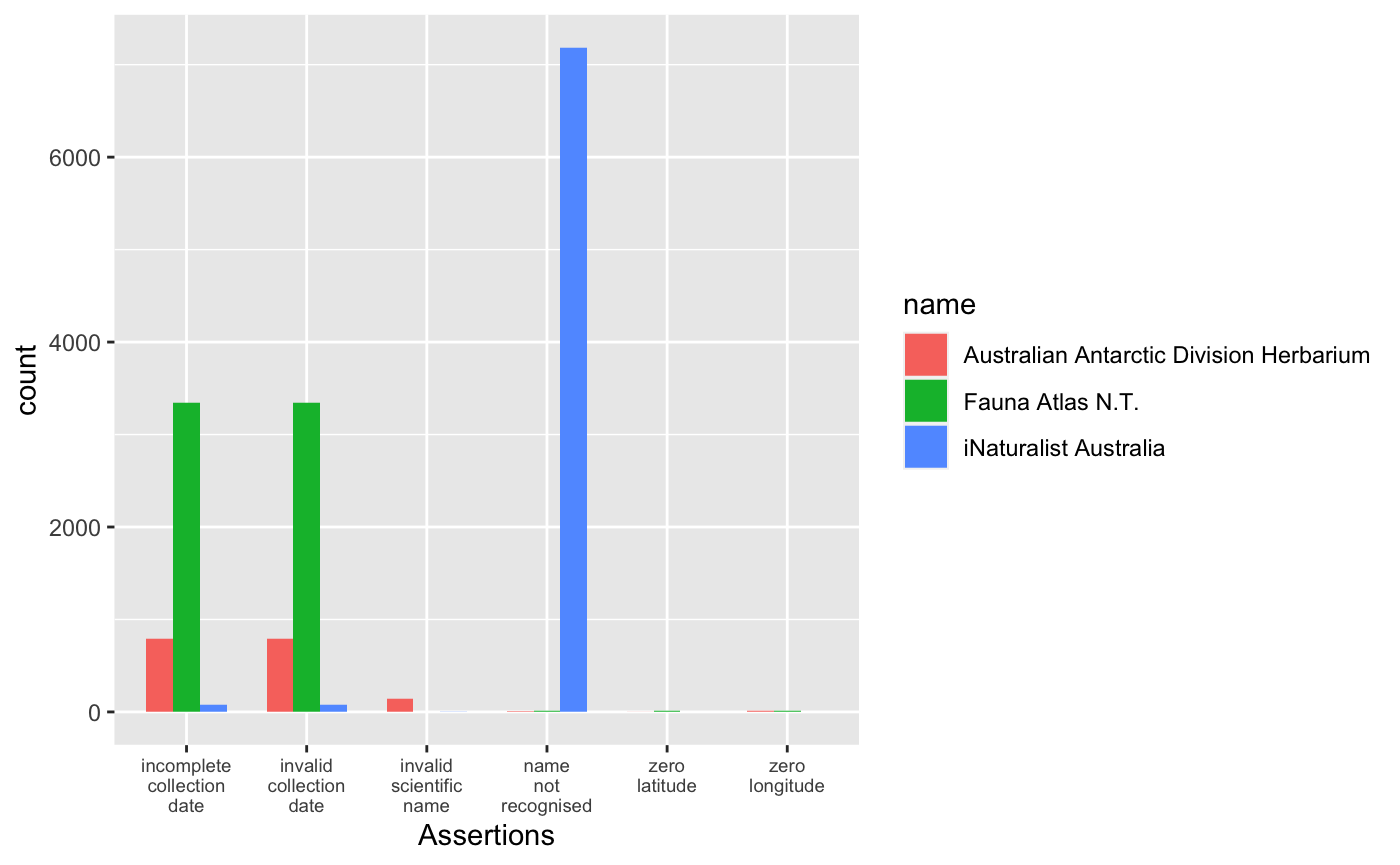
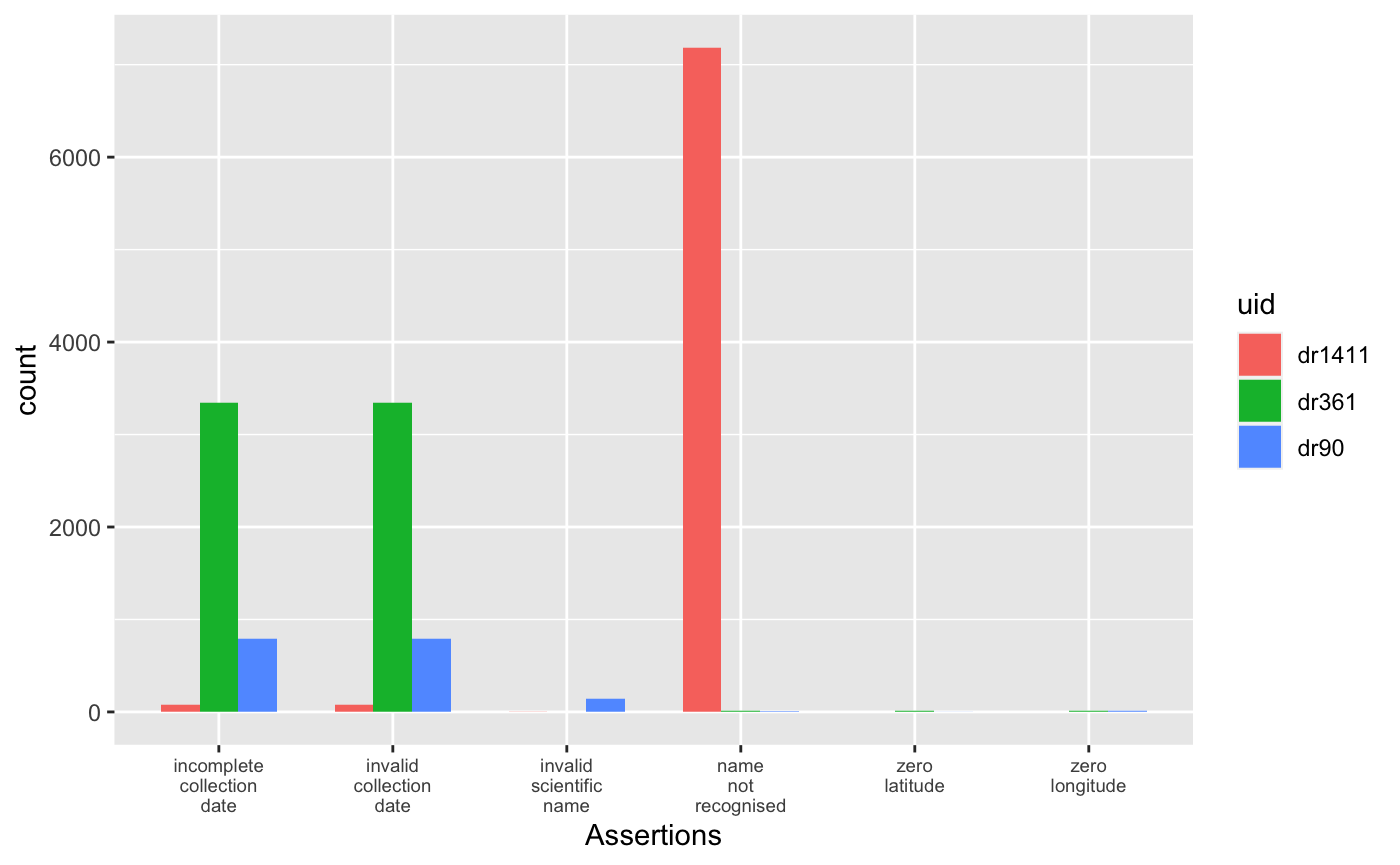
Improve warning message

Changed region(s): [[0.6143, 0.0, 0.9829, 0.9364], [0.0921, 0.437, 0.5836, 0.9988], [0.3993, 0.0312, 0.5529, 0.8428]]

diff --git a/docs/articles/ALA4R.html b/docs/articles/ALA4R.html
@@ -509,15 +509,15 @@
 <span class="co"># match cols against known assertions</span>
 <span class="no">assertions</span> <span class="kw">&lt;-</span> <span class="fu"><a href="../reference/ala_fields.html">ala_fields</a></span>(<span class="st">'assertions'</span>)
 <span class="no">assert_match</span> <span class="kw">&lt;-</span> <span class="fu"><a href="https://rdrr.io/r/base/names.html">names</a></span>(<span class="no">dr</span>)[<span class="fu"><a href="https://rdrr.io/r/base/names.html">names</a></span>(<span class="no">dr</span>) <span class="kw">%in%</span> <span class="no">assertions</span>$<span class="no">name</span>]
-<span class="no">dr_assert</span> <span class="kw">&lt;-</span> <span class="no">dr</span> <span class="kw">%&gt;%</span> <span class="fu"><a href="https://dplyr.tidyverse.org/reference/select.html">select</a></span>(<span class="no">name</span>, <span class="fu"><a href="https://dplyr.tidyverse.org/reference/reexports.html">all_of</a></span>(<span class="no">assert_match</span>)) <span class="kw">%&gt;%</span>
-  <span class="fu"><a href="https://tidyr.tidyverse.org/reference/pivot_longer.html">pivot_longer</a></span>(-<span class="no">name</span>, <span class="kw">names_to</span> <span class="kw">=</span> <span class="st">"assertion"</span>, <span class="kw">values_to</span> <span class="kw">=</span> <span class="st">"count"</span>) <span class="kw">%&gt;%</span>
+<span class="no">dr_assert</span> <span class="kw">&lt;-</span> <span class="no">dr</span> <span class="kw">%&gt;%</span> <span class="fu"><a href="https://dplyr.tidyverse.org/reference/select.html">select</a></span>(<span class="no">uid</span>, <span class="fu"><a href="https://dplyr.tidyverse.org/reference/reexports.html">all_of</a></span>(<span class="no">assert_match</span>)) <span class="kw">%&gt;%</span>
+  <span class="fu"><a href="https://tidyr.tidyverse.org/reference/pivot_longer.html">pivot_longer</a></span>(-<span class="no">uid</span>, <span class="kw">names_to</span> <span class="kw">=</span> <span class="st">"assertion"</span>, <span class="kw">values_to</span> <span class="kw">=</span> <span class="st">"count"</span>) <span class="kw">%&gt;%</span>
   <span class="fu"><a href="https://dplyr.tidyverse.org/reference/mutate.html">mutate</a></span>(<span class="kw">count</span> <span class="kw">=</span> <span class="fu"><a href="https://rdrr.io/r/base/integer.html">as.integer</a></span>(<span class="fu"><a href="https://rdrr.io/r/base/trimws.html">trimws</a></span>(<span class="fu"><a href="https://rdrr.io/r/base/character.html">as.character</a></span>(<span class="no">count</span>)))) <span class="kw">%&gt;%</span>
   <span class="co"># build axes labels with readable assertions</span>
   <span class="fu"><a href="https://dplyr.tidyverse.org/reference/mutate.html">mutate</a></span>(<span class="kw">assertion_label</span> <span class="kw">=</span> <span class="fu"><a href="https://rdrr.io/r/base/chartr.html">tolower</a></span>(<span class="fu"><a href="https://rdrr.io/r/base/grep.html">gsub</a></span>(<span class="st">'([A-Z])'</span>,<span class="st">'\n\\1'</span>,<span class="no">assertion</span>)))</pre></body></html></div>
 <p>Plot the assertions</p>
 <div class="sourceCode" id="cb56"><html><body><pre class="r"><span class="fu"><a href="https://rdrr.io/r/base/library.html">library</a></span>(<span class="no">ggplot2</span>)
 <span class="fu"><a href="https://ggplot2.tidyverse.org/reference/ggplot.html">ggplot</a></span>(<span class="no">dr_assert</span>) + <span class="fu"><a href="https://ggplot2.tidyverse.org/reference/geom_bar.html">geom_bar</a></span>(<span class="fu"><a href="https://ggplot2.tidyverse.org/reference/aes.html">aes</a></span>(<span class="kw">x</span> <span class="kw">=</span> <span class="no">assertion_label</span>, <span class="kw">y</span> <span class="kw">=</span> <span class="no">count</span>,
-                                 <span class="kw">fill</span> <span class="kw">=</span> <span class="no">name</span>),
+                                 <span class="kw">fill</span> <span class="kw">=</span> <span class="no">uid</span>),
                              <span class="kw">stat</span> <span class="kw">=</span> <span class="st">"identity"</span>, <span class="kw">position</span> <span class="kw">=</span> <span class="st">"dodge"</span>,
                              <span class="kw">width</span> <span class="kw">=</span> <span class="fl">2</span>/<span class="fl">3</span>) +
   <span class="fu"><a href="https://ggplot2.tidyverse.org/reference/theme.html">theme</a></span>(<span class="kw">axis.text.x</span> <span class="kw">=</span> <span class="fu"><a href="https://ggplot2.tidyverse.org/reference/element.html">element_text</a></span>(<span class="kw">size</span> <span class="kw">=</span> <span class="fl">7</span>)) +

diff --git a/docs/reference/ala_cache_filename.html b/docs/reference/ala_cache_filename.html
@@ -156,7 +156,7 @@ the mapping from URL to filename</p>
 directory</p></div>
 
     <h2 class="hasAnchor" id="examples"><a class="anchor" href="#examples"></a>Examples</h2>
-    <pre class="examples"><div class='input'><span class='fu'>ala_cache_filename</span>(<span class='st'>"https://biocache-ws.ala.org.au/ws/index/fields"</span>)</div><div class='output co'>#&gt; [1] "/var/folders/vj/3tg9x69j489f4c_28pvcyqq0010qw1/T//RtmpWH3O2H/3b171660be082bfc39d3a216452ecd31"</div><div class='input'>
+    <pre class="examples"><div class='input'><span class='fu'>ala_cache_filename</span>(<span class='st'>"https://biocache-ws.ala.org.au/ws/index/fields"</span>)</div><div class='output co'>#&gt; [1] "/var/folders/vj/3tg9x69j489f4c_28pvcyqq0010qw1/T//RtmpheyX8V/3b171660be082bfc39d3a216452ecd31"</div><div class='input'>
 </div></pre>
   </div>
   <div class="col-md-3 hidden-xs hidden-sm" id="pkgdown-sidebar">
